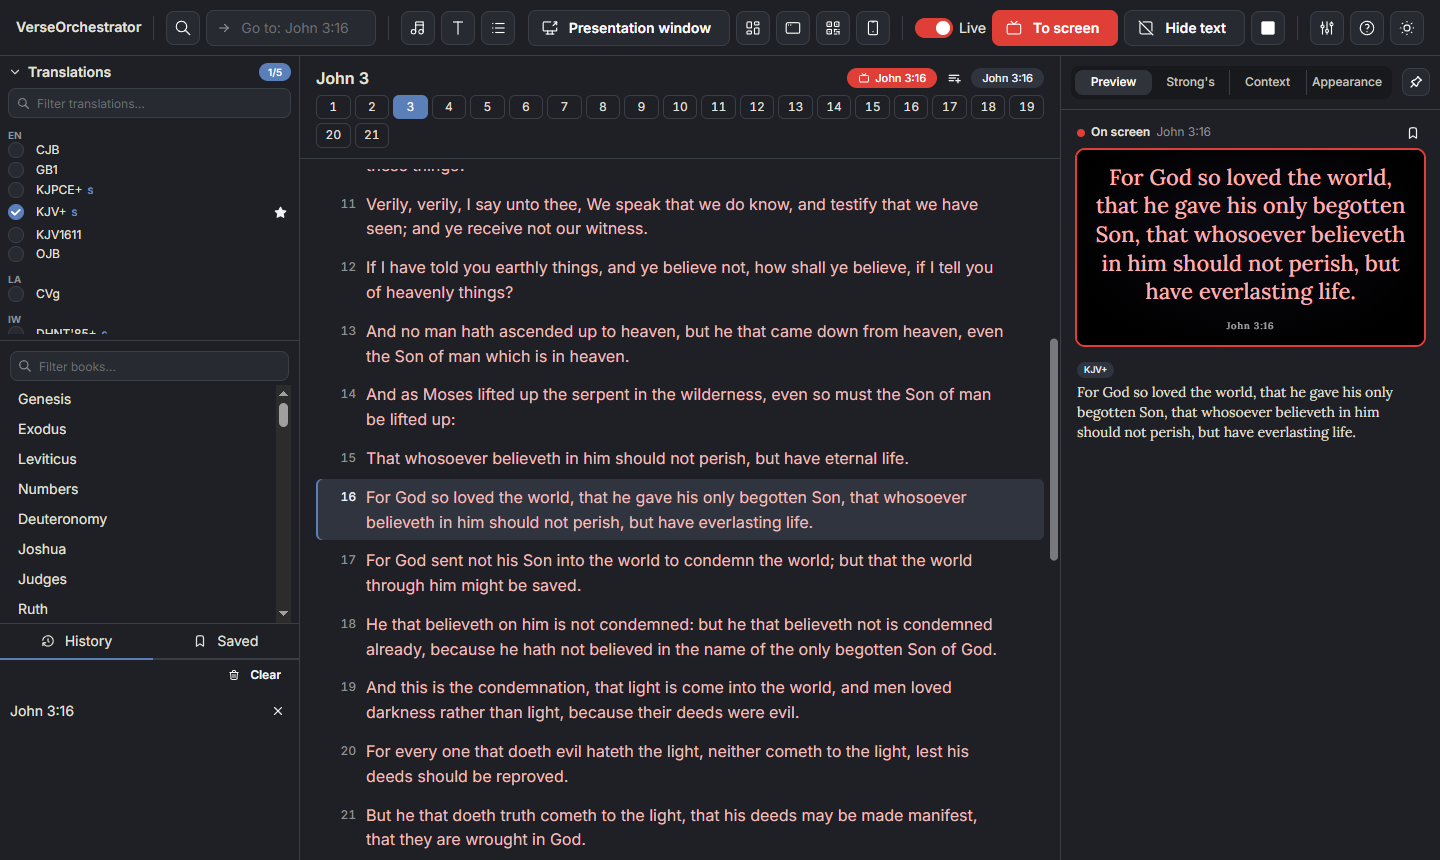
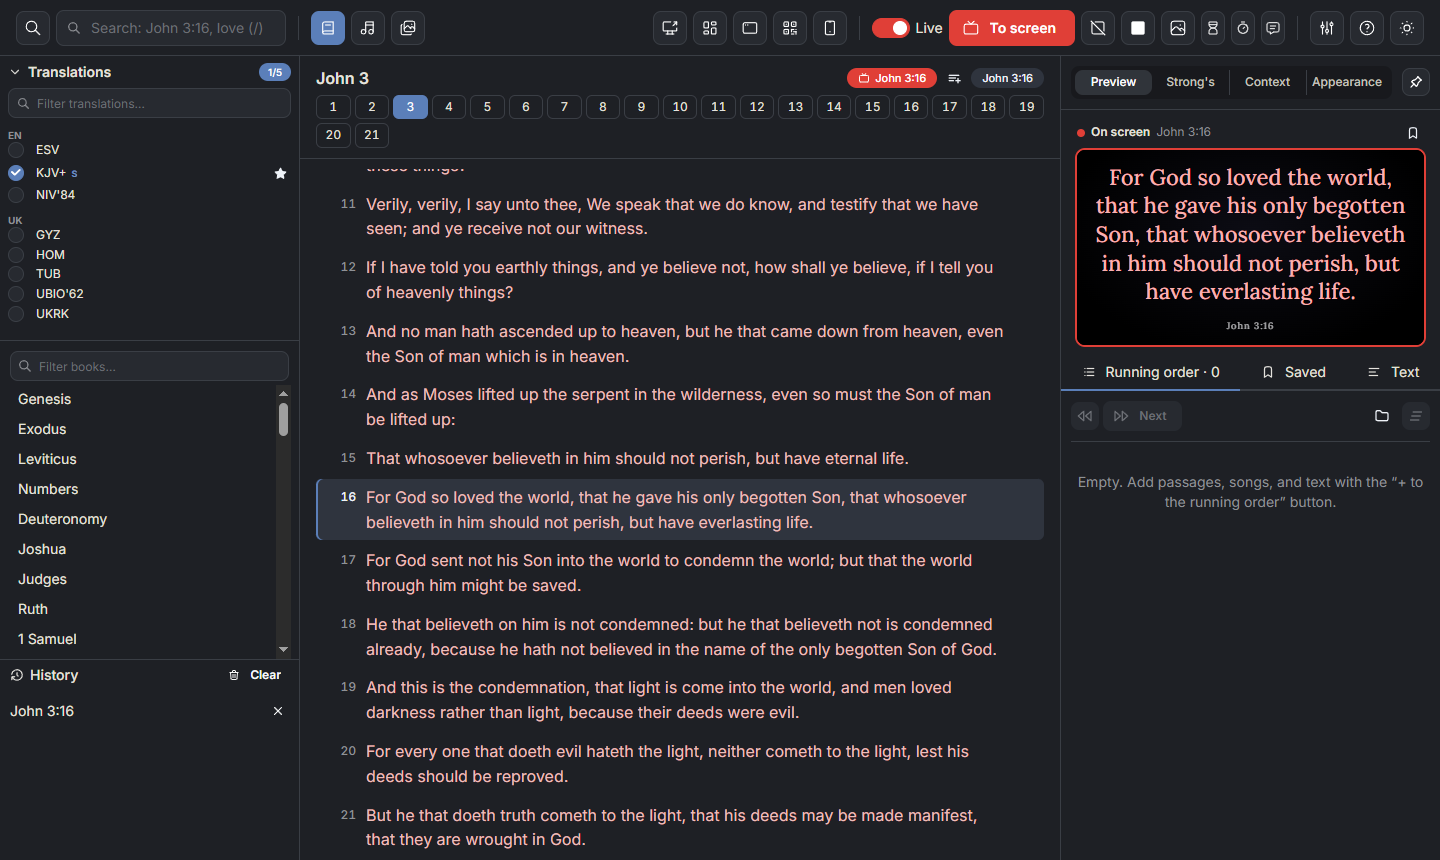
Docs: new screenshots for 1.9 — one search field, the modes, the running order under the monitors
Before the stable 1.9.0: the shots taken before 1.8.12 showed the old header («Перейти»), the old
centre and panels. Retaken in both languages by .claude's w-docs.mjs (headless Chrome, an isolated
server over the flash data pack's library; on the slides only KJV and Kulish 1905, public
domain): control-window, output-window, find-parallel, find-search (one field, the results over
the chapter), own-text (Медіа → Текст на екран), appearance, outputs-panel, viewers-panel,
phone-follow (the theme), phone-remote (the search field), remote-panel (Телефон / Комп’ютер).
Two alt texts follow what the shots show now (show-text.md's monitors, remote.md's panel).

diff --git a/docs/show-text.md b/docs/show-text.md
@@ -17,8 +17,8 @@
 Коли прев’ю й екран однакові, лишається один монітор із червоною рамкою й підписом
 **На екрані**.
 
-![Праворуч — жовтий монітор «Прев’ю» з віршем і сірий монітор «На екрані» з підписом
-«Порожньо»: вірш вибрано, але ще не показано](img/find-parallel.png)
+![Праворуч — жовтий монітор «Прев’ю» з Івана 3:16 у двох перекладах і червоний монітор «На
+екрані» з віршем в одному: підготовлене відрізняється від того, що на екрані](img/find-parallel.png)
 
 Монітори можна поставити під список віршів: **Налаштування вигляду** → **Застосунок** →
 **Розташування панелі прев’ю** → **Унизу центру**. Тоді **Прев’ю** й **На екрані** стоять

diff --git a/docs/remote.md b/docs/remote.md
@@ -34,8 +34,8 @@
 QR-код пульта видно лише до натискання **Готово**. Якщо доповідач не встиг його
 відсканувати, перевипустіть код — див. [Керуйте пультами](#керуйте-пультами).
 
-![Панель «Пульт доповідача»: поле «Назва», дозволи з позначеними «Далі», «Назад» і
-«Сховати текст», кнопка «Створити пульт», а в списку — пульт «Доповідач» на
+![Панель «Пульт доповідача»: угорі вибрано «Телефон», поле «Назва», дозволи з позначеними
+«Далі», «Назад» і «Сховати текст», кнопка «Створити пульт», а в списку — пульт «Доповідач» на
 зв’язку](img/remote-panel.png)
 
 Якщо пульт не відкривається на телефоні, див.

diff --git a/docs/en/remote.md b/docs/en/remote.md
@@ -34,9 +34,9 @@ To create a remote:
 The remote's QR code shows only until you click **Done**. If the speaker didn't manage to
 scan it, reissue the code — see [Manage remotes](#manage-remotes).
 
-![The Speaker remote panel: the Name field, the permissions with Next, Back, and Hide text
-selected, the Create a remote button, and in the list the remote “Speaker”
-connected](../img/en/remote-panel.png)
+![The Speaker remote panel: Phone chosen at the top, the Name field, the permissions with
+Next, Back, and Hide text selected, the Create a remote button, and in the list the remote
+“Speaker” connected](../img/en/remote-panel.png)
 
 If the remote doesn't open on the phone, see
 [If a phone doesn't open the page](viewers.md#if-a-phone-doesnt-open-the-page).
